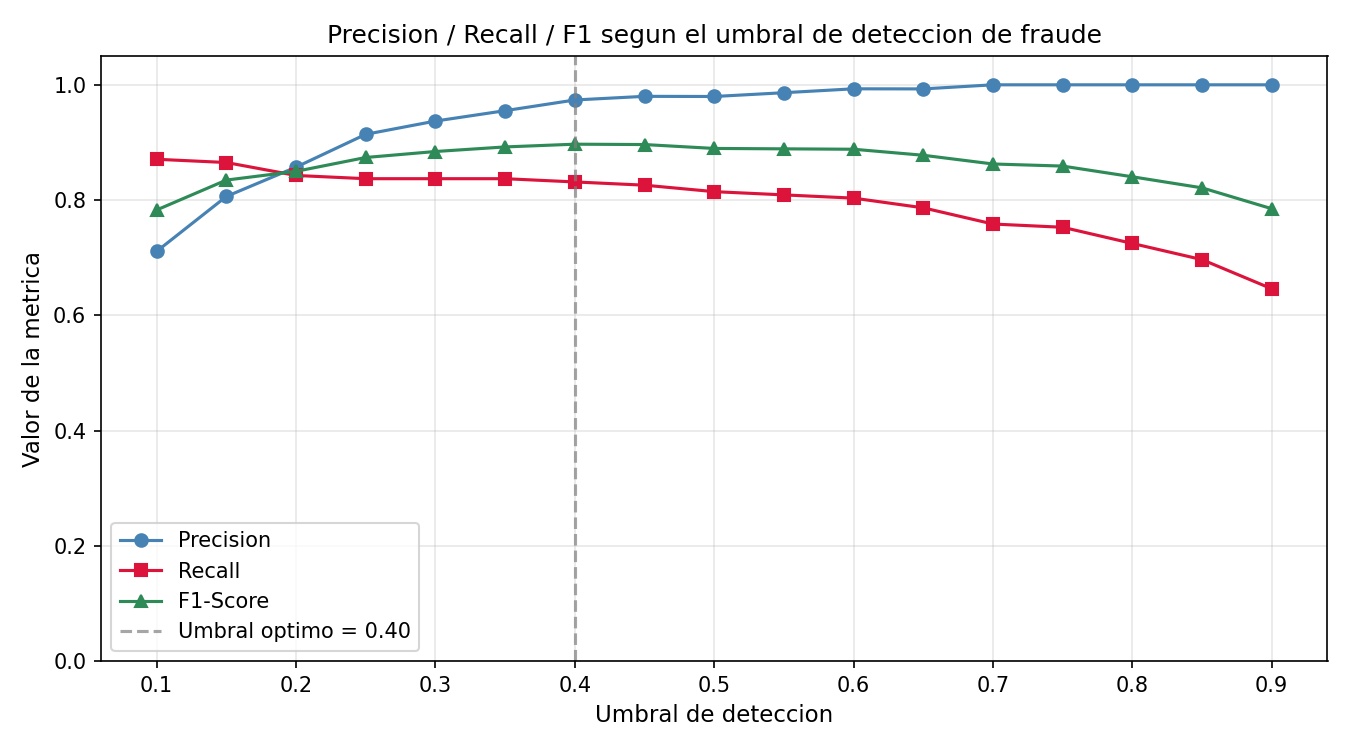
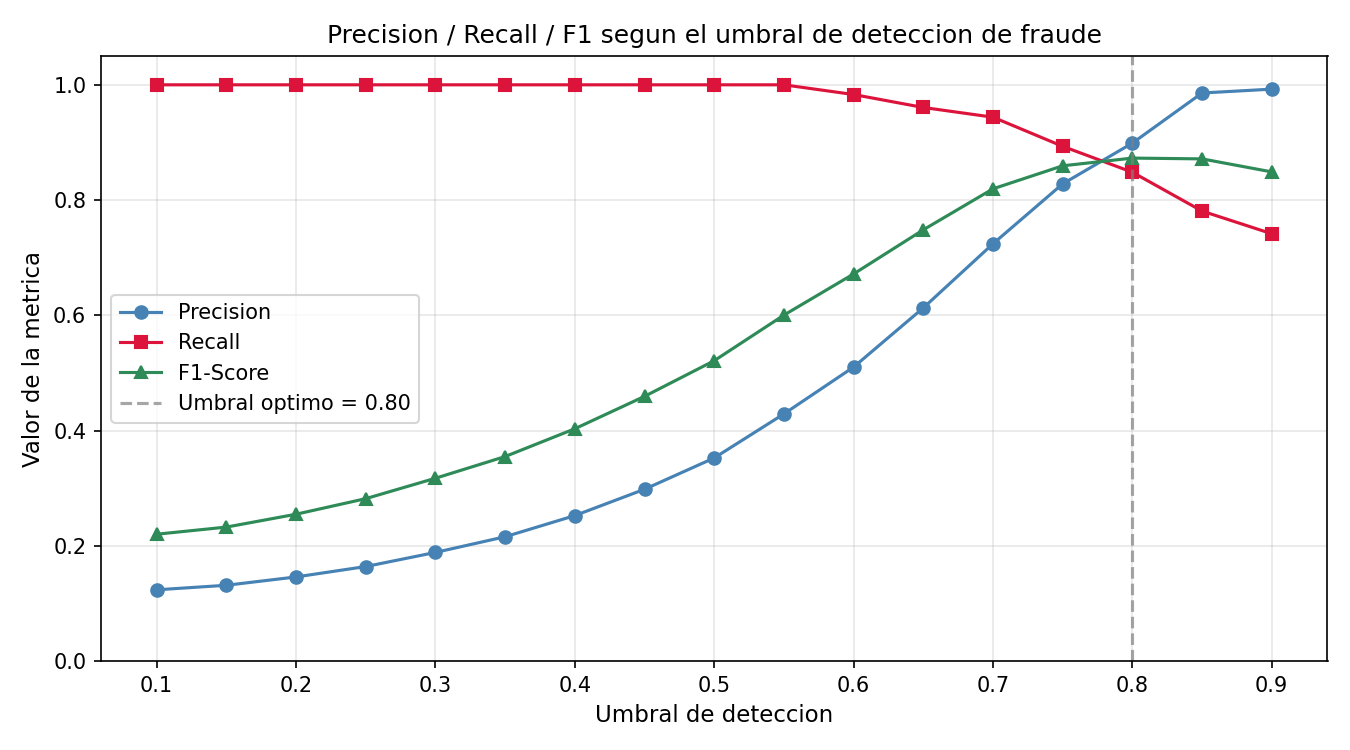
the air crackles with big model

diff --git a/algorithmEjercicio1/generalizacion_fraud.py b/algorithmEjercicio1/generalizacion_fraud.py
@@ -28,8 +28,10 @@ def metricas(y_true, y_pred):
 # Carga y normalizacion
 df = pd.read_csv(os.path.join(os.path.dirname(__file__), '../data/fraud_dataset.csv'))
 
+# Usamos big_model_fraud_probability como target para Knowledge Distillation
 X = df.drop(columns=['flagged_fraud', 'big_model_fraud_probability']).values.astype(float)
-y = df['flagged_fraud'].values.astype(int)
+y = df['big_model_fraud_probability'].values.astype(float)
+y_binary = df['flagged_fraud'].values.astype(int)
 
 X = (X - X.min(axis=0)) / (X.max(axis=0) - X.min(axis=0) + 1e-8)
 
@@ -37,15 +39,17 @@ EPOCHS = 20
 K      = 5
 
 print(f"Modelo: PerceptronNoLineal | Epochs: {EPOCHS} | K-Fold: {K}")
-print(f"Muestras: {len(X)} | Fraudes: {y.sum()} ({y.mean()*100:.1f}%)")
+print(f"Muestras: {len(X)} | Target: Knowledge Distillation")
+print(f"Fraudes Reales: {y_binary.sum()} ({y_binary.mean()*100:.1f}%)")
 
 
-# Stratified K-Fold Cross Validation :Divide el dataset en K bloques manteniendo la proporcion de fraudes en cada uno -> evita que un fold tenga 0 fraudes
+# Stratified K-Fold Cross Validation
+# Mantenemos la estratificacion basada en y_binary para asegurar folds balanceados
 print("Stratified K-Fold Cross Validation (K=5)")
 
-# Construimos los indices estratificados manualmente
-idx_fraud    = np.where(y == 1)[0]
-idx_nofraud  = np.where(y == 0)[0]
+# Construimos los indices estratificados manualmente basados en etiquetas reales
+idx_fraud    = np.where(y_binary == 1)[0]
+idx_nofraud  = np.where(y_binary == 0)[0]
 np.random.seed(42)
 np.random.shuffle(idx_fraud)
 np.random.shuffle(idx_nofraud)
@@ -56,8 +60,8 @@ folds = [np.concatenate([folds_fraud[k], folds_nofraud[k]]) for k in range(K)]
 
 resultados = []
 
-print(f"\n{'Fold':<6} {'Acc %':<10} {'Precision':<12} {'Recall':<10} {'F1':<10}")
-print("-" * 50)
+print(f"\n{'Fold':<6} {'MSE':<10} {'Acc %':<10} {'Precision':<12} {'Recall':<10} {'F1':<10}")
+print("-" * 62)
 
 for k in range(K):
     idx_test  = folds[k]
@@ -65,39 +69,42 @@ for k in range(K):
 
     X_train, y_train = X[idx_train], y[idx_train]
     X_test,  y_test  = X[idx_test],  y[idx_test]
+    y_test_binary    = y_binary[idx_test]
 
     modelo = PerceptronNoLineal(X_train.shape[1], alpha=0.1)
     modelo.fit(X_train, y_train, epochs=EPOCHS)
 
-    y_pred = modelo.predict(X_test)
-    acc, prec, rec, f1 = metricas(y_test, y_pred)
-    resultados.append((acc, prec, rec, f1))
-    print(f"{k+1:<6} {acc*100:<10.2f} {prec:<12.3f} {rec:<10.3f} {f1:<10.3f}")
+    # Prediccion continua para MSE
+    y_prob = modelo.predict_proba(X_test).flatten()
+    mse = np.mean((y_prob - y_test)**2)
+    
+    # Prediccion binaria para metricas de clasificacion contra ground truth real
+    y_pred = modelo.predict(X_test, threshold=0.5)
+    acc, prec, rec, f1 = metricas(y_test_binary, y_pred)
+    
+    resultados.append((mse, acc, prec, rec, f1))
+    print(f"{k+1:<6} {mse:<10.4f} {acc*100:<10.2f} {prec:<12.3f} {rec:<10.3f} {f1:<10.3f}")
 
 resultados = np.array(resultados)
-print("-" * 50)
-print(f"{'Media':<6} {resultados[:,0].mean()*100:<10.2f} "
-      f"{resultados[:,1].mean():<12.3f} "
-      f"{resultados[:,2].mean():<10.3f} "
-      f"{resultados[:,3].mean():<10.3f}")
-print(f"{'Std':<6} {resultados[:,0].std()*100:<10.2f} "
-      f"{resultados[:,1].std():<12.3f} "
-      f"{resultados[:,2].std():<10.3f} "
-      f"{resultados[:,3].std():<10.3f}")
-
-
-# METRICAS
-#- Recall    : prioritaria en fraude -> el costo de NO detectar un fraude real es mayor que una falsa alarma.")
-#- Precision : evitar demasiadas falsas alarmas (costo operativo).")
-#- F1-Score  : equilibrio entre Precision y Recall.")
-#- Accuracy  : referencia general (puede ser enganosa con datos desbalanceados).")
+print("-" * 62)
+print(f"{'Media':<6} {resultados[:,0].mean():<10.4f} "
+      f"{resultados[:,1].mean()*100:<10.2f} "
+      f"{resultados[:,2].mean():<12.3f} "
+      f"{resultados[:,3].mean():<10.3f} "
+      f"{resultados[:,4].mean():<10.3f}")
+print(f"{'Std':<6} {resultados[:,0].std():<10.4f} "
+      f"{resultados[:,1].std()*100:<10.2f} "
+      f"{resultados[:,2].std():<12.3f} "
+      f"{resultados[:,3].std():<10.3f} "
+      f"{resultados[:,4].std():<10.3f}")
 
 
 # MEJOR MODELO 
 # Entrenamos el modelo final sobre el 80% y evaluamos el umbral en el 20%
 split    = int(0.8 * len(X))
 X_train, X_test = X[:split], X[split:]
-y_train, y_test = y[:split], y[split:]
+y_train, y_test = y[:split], y[split:] # Target continuo para train
+y_test_real = y_binary[split:]         # Ground truth para evaluacion
 
 modelo_final = PerceptronNoLineal(X_train.shape[1], alpha=0.1)
 modelo_final.fit(X_train, y_train, epochs=EPOCHS)
@@ -108,7 +115,7 @@ precisiones, recalls, f1s = [], [], []
 
 for t in thresholds:
     y_pred = modelo_final.predict(X_test, threshold=t)
-    _, prec, rec, f1 = metricas(y_test, y_pred)
+    _, prec, rec, f1 = metricas(y_test_real, y_pred)
     precisiones.append(prec)
     recalls.append(rec)
     f1s.append(f1)
@@ -119,12 +126,9 @@ mejor_umbral = thresholds[mejor_idx]
 print(f"\n{'Umbral':<10} {'Precision':<12} {'Recall':<10} {'F1':<10}")
 
 for t, p, r, f in zip(thresholds, precisiones, recalls, f1s):
-    marca = " <-- OPTIMO" if abs(t - mejor_umbral) < 0.001 else ""
+    marca = " <-- OPTIMO (F1)" if abs(t - mejor_umbral) < 0.001 else ""
     print(f"{t:<10.2f} {p:<12.3f} {r:<10.3f} {f:<10.3f}{marca}")
 
-#En deteccion de fraude se prefiere un recall alto (no perder fraudes reales). 
-#El umbral maximiza el F1 manteniendo un equilibrio precision/recall aceptable.
-#Si CompanyX prioriza recall > 0.90, bajar el umbral a ~0.30.
 print(f"\nUmbral recomendado para CompanyX: {mejor_umbral:.2f}")
 print(f"  -> F1={f1s[mejor_idx]:.3f} | Precision={precisiones[mejor_idx]:.3f} | Recall={recalls[mejor_idx]:.3f}")
 

diff --git a/algorithmEjercicio1/perceptron_fraud.py b/algorithmEjercicio1/perceptron_fraud.py
@@ -10,15 +10,18 @@ from perceptronSimpleNoLineal import PerceptronNoLineal
 # --- Carga y normalizacion de TODAS las muestras ---
 df = pd.read_csv(os.path.join(os.path.dirname(__file__), '../data/fraud_dataset.csv'))
 
-#Sacamos flagged_fraud and big_model_fraud_probability, el primero porque es el feature que queremos predecir y la segunda porque da informacion sobre la feature que queremos precedir con bigmodel
+# Usamos big_model_fraud_probability como target para Knowledge Distillation
+# El objetivo es que TinyModel aprenda a replicar la salida de BigModel
 X = df.drop(columns=['flagged_fraud','big_model_fraud_probability']).values.astype(float)
-y = df['flagged_fraud'].values.astype(int)
+y = df['big_model_fraud_probability'].values.astype(float)
+y_binary = df['flagged_fraud'].values.astype(int)
 
 X = (X - X.min(axis=0)) / (X.max(axis=0) - X.min(axis=0) + 1e-8)
 
 EPOCHS = 20
 print(f"Conjunto de datos: {len(X)} muestras, {X.shape[1]} variables de entrada")
-print(f"Fraudes: {y.sum()} ({y.mean()*100:.1f}%) | No fraudes: {(1-y).sum()} ({(1-y).mean()*100:.1f}%)")
+print(f"Target: Knowledge Distillation (replicar BigModel)")
+print(f"Media de probabilidad de BigModel: {y.mean():.4f}")
 
 
 # Estudio del potencial de aprendizaje (todas las muestras)
@@ -28,36 +31,36 @@ pnl = PerceptronNoLineal(X.shape[1], alpha=0.1)
 hist_lin,  _ = pl.fit(X, y, epochs=EPOCHS)
 hist_nolin, _ = pnl.fit(X, y, epochs=EPOCHS)
 
-print(f"\n{'Epoch':<8} {'Lineal (acc %)':<22} {'No Lineal (acc %)':<22}")
+print(f"\n{'Epoch':<8} {'Lineal (MSE)':<22} {'No Lineal (MSE)':<22}")
 
 
-for i, (a_lin, a_nolin) in enumerate(zip(hist_lin, hist_nolin), 1):
-    print(f"{i:<8} {a_lin*100:<22.2f} {a_nolin*100:<22.2f}")
+for i, (mse_lin, mse_nolin) in enumerate(zip(hist_lin, hist_nolin), 1):
+    print(f"{i:<8} {mse_lin:<22.6f} {mse_nolin:<22.6f}")
 
-print(f"\nExactitud Lineal:    {hist_lin[-1]*100:.2f}%")
-print(f"Exactitud No Lineal: {hist_nolin[-1]*100:.2f}%")
+print(f"\nMSE Final Lineal:    {hist_lin[-1]:.6f}")
+print(f"MSE Final No Lineal: {hist_nolin[-1]:.6f}")
 
 # --- Analisis: underfitting y saturacion ---
 
-# Underfitting: exactitud baja incluso sobre los datos de entrenamiento
-umbral_underfitting = 0.80
+# Underfitting: MSE alto incluso sobre los datos de entrenamiento
+umbral_underfitting_mse = 0.05
 for nombre, hist in [("Lineal", hist_lin), ("No Lineal", hist_nolin)]:
-    if max(hist) < umbral_underfitting:
-        print(f"{nombre}: UNDERFITTING detectado (exactitud maxima = {max(hist)*100:.2f}%)")
+    if min(hist) > umbral_underfitting_mse:
+        print(f"{nombre}: UNDERFITTING detectado (MSE minimo = {min(hist):.6f})")
     else:
-        print(f"{nombre}: Sin underfitting (exactitud maxima = {max(hist)*100:.2f}%)")
+        print(f"{nombre}: Sin underfitting (MSE minimo = {min(hist):.6f})")
 
-# Saturacion: la exactitud deja de mejorar
+# Saturacion: el MSE deja de mejorar
 for nombre, hist in [("Lineal", hist_lin), ("No Lineal", hist_nolin)]:
-    mejora = max(hist) - hist[0]
+    mejora = hist[0] - min(hist)
     ultimas = hist[-5:]
     rango_final = max(ultimas) - min(ultimas)
-    if rango_final < 0.005:
-        print(f"{nombre}: SATURACION detectada (variacion en ultimas 5 epochs = {rango_final*100:.3f}%)")
+    if rango_final < 0.0001:
+        print(f"{nombre}: SATURACION detectada (variacion en ultimas 5 epochs = {rango_final:.6f})")
     else:
-        print(f"{nombre}: Sin saturacion (progresion {hist[0]*100:.2f}% -> {hist[-1]*100:.2f}%)")
+        print(f"{nombre}: Sin saturacion (progresion MSE {hist[0]:.6f} -> {hist[-1]:.6f})")
 
 # Seleccion del modelo para estudio de generalizacion
-mejor = "No Lineal" if hist_nolin[-1] >= hist_lin[-1] else "Lineal"
+mejor = "No Lineal" if hist_nolin[-1] <= hist_lin[-1] else "Lineal"
 print(f"Modelo seleccionado para generalizacion: {mejor}")
 

diff --git a/algorithmEjercicio1/perceptronSimpleLineal.py b/algorithmEjercicio1/perceptronSimpleLineal.py
@@ -6,35 +6,53 @@ class PerceptronLineal:
 		self.W = np.random.randn(N + 1) / np.sqrt(N)
 		self.alpha = alpha
 
-	def step(self, x):
-		# Funcion de activacion lineal: retorna 0 o 1
-		return 1 if x > 0 else 0
+	def activation(self, x):
+		# Funcion de activacion lineal: f(z) = z (identidad)
+		return x
 
 	def fit(self, X, y, epochs=20, X_val=None, y_val=None):
 		# Agregamos el sesgo (bias) como ultima columna de X
 		X = np.c_[X, np.ones((X.shape[0]))]
 		if X_val is not None:
 			X_val_b = np.c_[X_val, np.ones((X_val.shape[0]))]
+		
 		history_train = []
 		history_val = []
+		
 		for epoch in np.arange(0, epochs):
-			for (x, target) in zip(X, y):
-				p = self.step(np.dot(x, self.W))
-				# Solo actualizamos los pesos si la prediccion es incorrecta
-				if p != target:
-					error = p - target
-					self.W += -self.alpha * error * x
-			# Exactitud sobre el conjunto de entrenamiento
-			preds_train = np.array([self.step(np.dot(x, self.W)) for x in X])
-			history_train.append(np.mean(preds_train == y))
-			# Exactitud sobre el conjunto de validacion (si se proporciona)
+			# Barajamos los datos en cada epoch para un entrenamiento mas estable (SGD)
+			indices = np.arange(len(X))
+			np.random.shuffle(indices)
+			
+			for i in indices:
+				xi = X[i]
+				target = y[i]
+				# Forward pass
+				p = self.activation(np.dot(xi, self.W))
+				# Update rule for MSE: W = W - alpha * (p - target) * xi
+				error = p - target
+				self.W += -self.alpha * error * xi
+			
+			# Calculo de MSE sobre el conjunto de entrenamiento
+			preds_train = self.activation(np.dot(X, self.W))
+			mse_train = np.mean((preds_train - y)**2)
+			history_train.append(mse_train)
+			
+			# Calculo de MSE sobre el conjunto de validacion (si se proporciona)
 			if X_val is not None:
-				preds_val = np.array([self.step(np.dot(x, self.W)) for x in X_val_b])
-				history_val.append(np.mean(preds_val == y_val))
+				preds_val = self.activation(np.dot(X_val_b, self.W))
+				mse_val = np.mean((preds_val - y_val)**2)
+				history_val.append(mse_val)
+				
 		return history_train, history_val
 
-	def predict(self, X, addBias=True):
+	def predict_proba(self, X, addBias=True):
+		# Retorna la salida lineal continua
 		X = np.atleast_2d(X)
 		if addBias:
 			X = np.c_[X, np.ones((X.shape[0]))]
-		return self.step(np.dot(X, self.W))
+		return self.activation(np.dot(X, self.W))
+
+	def predict(self, X, threshold=0.5, addBias=True):
+		# Aplicamos un umbral para obtener una prediccion binaria
+		return (self.predict_proba(X, addBias=addBias) >= threshold).astype(int)

diff --git a/algorithmEjercicio1/perceptronSimpleNoLineal.py b/algorithmEjercicio1/perceptronSimpleNoLineal.py
@@ -19,21 +19,35 @@ class PerceptronNoLineal:
 		X = np.c_[X, np.ones((X.shape[0]))]
 		if X_val is not None:
 			X_val_b = np.c_[X_val, np.ones((X_val.shape[0]))]
+		
 		history_train = []
 		history_val = []
+		
 		for epoch in np.arange(0, epochs):
-			for (x, target) in zip(X, y):
-				output = self.sigmoid(np.dot(x, self.W))
+			# Barajamos los datos en cada epoch para un entrenamiento mas estable (SGD)
+			indices = np.arange(len(X))
+			np.random.shuffle(indices)
+			
+			for i in indices:
+				xi = X[i]
+				target = y[i]
+				# Forward pass
+				output = self.sigmoid(np.dot(xi, self.W))
 				error = output - target
-				# Actualizamos los pesos usando el gradiente de la funcion de perdida
-				self.W += -self.alpha * error * self.sigmoid_deriv(output) * x
-			# Exactitud sobre el conjunto de entrenamiento
-			preds_train = (self.sigmoid(X.dot(self.W)) >= 0.5).astype(int)
-			history_train.append(np.mean(preds_train == y))
-			# Exactitud sobre el conjunto de validacion (si se proporciona)
+				# Actualizamos los pesos usando el gradiente de la funcion de perdida MSE con sigmoide
+				self.W += -self.alpha * error * self.sigmoid_deriv(output) * xi
+			
+			# Calculo de MSE sobre el conjunto de entrenamiento
+			preds_train = self.sigmoid(X.dot(self.W))
+			mse_train = np.mean((preds_train - y)**2)
+			history_train.append(mse_train)
+			
+			# Calculo de MSE sobre el conjunto de validacion (si se proporciona)
 			if X_val is not None:
-				preds_val = (self.sigmoid(X_val_b.dot(self.W)) >= 0.5).astype(int)
-				history_val.append(np.mean(preds_val == y_val))
+				preds_val = self.sigmoid(X_val_b.dot(self.W))
+				mse_val = np.mean((preds_val - y_val)**2)
+				history_val.append(mse_val)
+				
 		return history_train, history_val
 
 	def predict_proba(self, X, addBias=True):
@@ -43,6 +57,6 @@ class PerceptronNoLineal:
 			X = np.c_[X, np.ones((X.shape[0]))]
 		return self.sigmoid(X.dot(self.W))
 
-	def predict(self, X, threshold=0.4, addBias=True):
+	def predict(self, X, threshold=0.5, addBias=True):
 		# Aplicamos el umbral configurable para obtener una prediccion binaria
 		return (self.predict_proba(X, addBias=addBias) >= threshold).astype(int)
